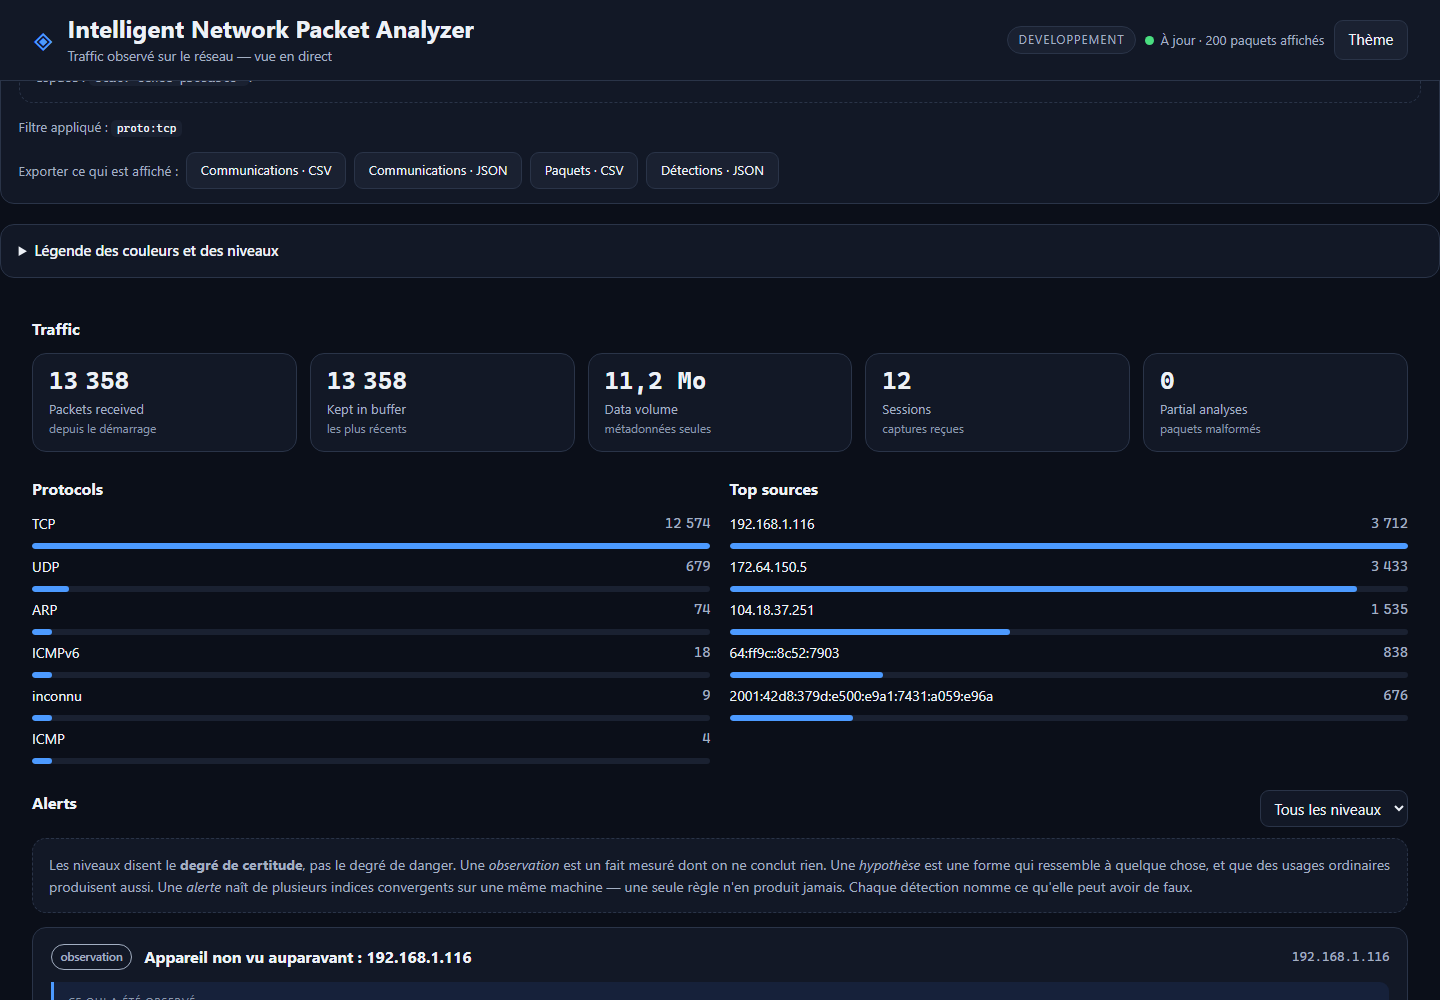
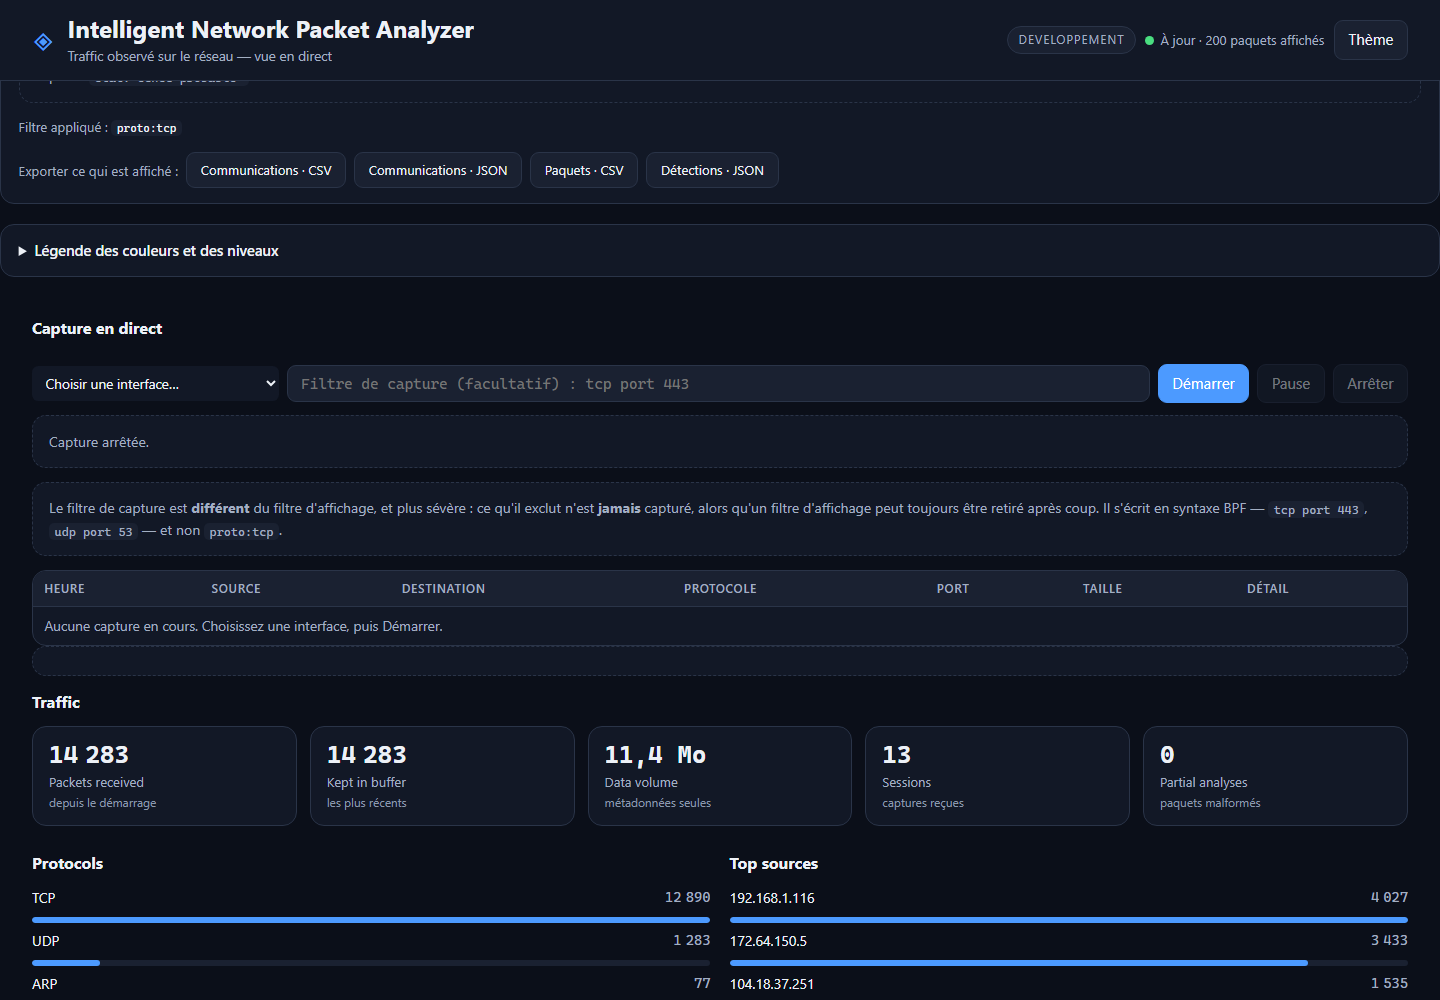
feat(web): cinq vues nommees, celles du sujet - fin de la page en neuf blocs
LA PAGE PORTE LES VUES DU PARAGRAPHE 9 : Traffic, Connections, Protocols, Alerts, Paquets.
Neuf blocs au meme niveau ne disaient pas ou commencer ; une barre d'onglets le dit sans rien
expliquer.

OU VA CHAQUE CHOSE. Traffic : chiffres, principales sources, debit, statistiques, historique.
Connections : les communications et le recit. Protocols : les protocoles, leur role, la vue
par couche. Alerts : les detections et l'Expert Info avec ses criteres. Paquets : la liste et
le detail du paquet selectionne.

LA BARRE DE CAPTURE RESTE VISIBLE DANS TOUTES LES VUES. Elle n'est pas une information sur le
trafic : c'est le controle qui PRODUIT le trafic. La ranger dans une vue ferait qu'on ne
pourrait plus l'arreter depuis les autres - c'est-a-dire au moment ou l'on regarde ailleurs.

LA VUE CHOISIE EST DANS L'ADRESSE : elle se met en favori, se partage, et resiste a un
rafraichissement. Pendant une demonstration, c'est exactement le moment ou l'on ne veut pas se
perdre.

LA VUE COURANTE SE RECONNAIT PAR UN TRAIT ET PAR SON CONTRASTE, pas par la seule couleur : un
trait reste visible en niveaux de gris, une difference de teinte non.

AU CLAVIER, LES FLECHES PASSENT D'UNE VUE A L'AUTRE, comme dans un groupe d'onglets.

UNE VUE INCONNUE DANS L'ADRESSE RETOMBE SUR LA PREMIERE : un lien mal recopie ne doit pas
ressembler a une panne.

CE QUI RESTE : la vue detaillee unifiee (technique + analyse + explication + niveau au meme
[…]

diff --git a/web/templates/index.html b/web/templates/index.html
@@ -59,6 +59,14 @@
 {# Barre de filtre d'affichage. Elle agit sur les trois listes à la fois — paquets,
    communications, détections — parce qu'un filtre qui ne s'appliquerait qu'à une partie
    de la page donnerait deux réponses différentes à la même question. #}
+<nav class="vues" aria-label="Vues de l'analyse">
+  <button type="button" class="vue-onglet" data-cible="traffic">Traffic</button>
+  <button type="button" class="vue-onglet" data-cible="connections">Connections</button>
+  <button type="button" class="vue-onglet" data-cible="protocols">Protocols</button>
+  <button type="button" class="vue-onglet" data-cible="alerts">Alerts</button>
+  <button type="button" class="vue-onglet" data-cible="paquets">Paquets</button>
+</nav>
+
 <section class="barre-filtre" aria-labelledby="titre-filtre">
   <h2 id="titre-filtre" class="sr-only">Filtre d'affichage</h2>
   <div class="barre-filtre__ligne">
@@ -140,7 +148,7 @@
 </details>
 
 <main>
-  <section aria-labelledby="titre-capture" class="section-capture">
+  <section data-vue-toujours="1" aria-labelledby="titre-capture" class="section-capture">
     <div class="titre-section--ligne">
       <h2 id="titre-capture" class="titre-section">Capture en direct</h2>
     </div>
@@ -195,7 +203,7 @@
     <p class="aide" id="vivant-compteur"></p>
   </section>
 
-  <section aria-labelledby="titre-traffic">
+  <section data-vue="traffic" aria-labelledby="titre-traffic">
     <h2 id="titre-traffic" class="titre-section">Traffic</h2>
     <div class="cartes" id="cartes">
       {# Valeurs remplies par le JavaScript : une seule source de vérité. #}
@@ -208,18 +216,18 @@
   </section>
 
   <div class="colonnes">
-    <section aria-labelledby="titre-protocoles">
+    <section data-vue="protocols" aria-labelledby="titre-protocoles">
       <h2 id="titre-protocoles" class="titre-section">Protocols</h2>
       <ul class="repartition" id="repartition"></ul>
     </section>
 
-    <section aria-labelledby="titre-sources">
+    <section data-vue="traffic" aria-labelledby="titre-sources">
       <h2 id="titre-sources" class="titre-section">Top sources</h2>
       <ul class="repartition" id="sources"></ul>
     </section>
   </div>
 
-  <section aria-labelledby="titre-detections">
+  <section data-vue="alerts" aria-labelledby="titre-detections">
     <div class="titre-section--ligne">
       <h2 id="titre-detections" class="titre-section">Alerts</h2>
       <div class="filtres">
@@ -247,7 +255,7 @@
     </p>
   </section>
 
-  <section aria-labelledby="titre-statistiques">
+  <section data-vue="traffic" aria-labelledby="titre-statistiques">
     <div class="titre-section--ligne">
       <h2 id="titre-statistiques" class="titre-section">Répartitions et débit</h2>
     </div>
@@ -282,7 +290,7 @@
     </div>
   </section>
 
-  <section aria-labelledby="titre-anomalies">
+  <section data-vue="alerts" aria-labelledby="titre-anomalies">
     <div class="titre-section--ligne">
       <h2 id="titre-anomalies" class="titre-section">Expert Info</h2>
       <p class="aide" id="anomalies-resume"></p>
@@ -296,7 +304,7 @@
     <div id="anomalies-liste"></div>
   </section>
 
-  <section aria-labelledby="titre-communications">
+  <section data-vue="connections" aria-labelledby="titre-communications">
     <div class="titre-section--ligne">
       <h2 id="titre-communications" class="titre-section">Connections</h2>
       <div class="filtres">
@@ -361,7 +369,7 @@
      Trois zones, visibles ensemble et nommées comme dans les outils de référence : la liste
      des paquets, le détail du paquet sélectionné, le contenu du paquet. Les empiler dans une
      fenêtre qu'il faut ouvrir obligerait à retenir ce qu'on vient de quitter. #}
-  <div class="paquet-detail" id="paquet-detail" aria-labelledby="paquet-detail-titre">
+  <div class="paquet-detail" id="paquet-detail" data-vue="paquets" aria-labelledby="paquet-detail-titre">
     <div class="detail-entete">
       <h3 id="paquet-detail-titre">Détail du paquet sélectionné</h3>
       <button type="button" class="bouton bouton--fantome" id="paquet-detail-fermer">
@@ -408,7 +416,7 @@
     <div id="recit-phrases"></div>
   </div>
 
-  <section aria-labelledby="titre-paquets">
+  <section data-vue="paquets" aria-labelledby="titre-paquets">
     <div class="titre-section--ligne">
       <h2 id="titre-paquets" class="titre-section">Liste des paquets</h2>
       <div class="filtres">
@@ -456,7 +464,7 @@
     </p>
   </section>
 
-  <section aria-labelledby="titre-sessions">
+  <section data-vue="traffic" aria-labelledby="titre-sessions">
     <h2 id="titre-sessions" class="titre-section">Sessions</h2>
     <p class="aide">Une session correspond à un lancement de l'agent. En phase actuelle,
        cette liste vit en mémoire et disparaît au redémarrage du backend.</p>

diff --git a/web/static/dashboard.js b/web/static/dashboard.js
@@ -1826,3 +1826,73 @@ function signalerCriteresEcartes(champs) {
   relireEtat();
   setInterval(relireEtat, 2000);
 })();
+
+/* ================================================================== vues de l'analyse
+
+   Le sujet nomme la structure : vue generale (Traffic, Connections, Protocols, Alerts),
+   vue des paquets, vue detaillee. Une page unique de neuf blocs ne dit pas ou commencer.
+
+   Deux precautions :
+
+   - **La vue choisie est dans l'adresse** (le fragment). Elle peut donc etre mise en favori
+     et partagee, et un rafraichissement ramene la ou on etait. Sans cela, un visiteur curieux
+     qui recharge la page perd le fil.
+   - **La capture reste visible dans toutes les vues.** C'est le point de depart du sujet : on
+     ne peut pas la cacher parce qu'on a change d'onglet. */
+(function () {
+  "use strict";
+
+  const onglets = [...document.querySelectorAll(".vue-onglet")];
+  const sections = [...document.querySelectorAll("[data-vue]")];
+  if (!onglets.length || !sections.length) return;
+
+  const VUES = onglets.map((onglet) => onglet.dataset.cible);
+  const DEFAUT = VUES[0] || "traffic";
+
+  function montrer(vue) {
+    let trouvee = false;
+    sections.forEach((section) => {
+      const sienne = section.dataset.vue === vue;
+      section.hidden = !sienne;
+      if (sienne) trouvee = true;
+    });
+    onglets.forEach((onglet) => {
+      onglet.setAttribute("aria-current", String(onglet.dataset.cible === vue));
+    });
+    return trouvee;
+  }
+
+  function choisir(vue, ecrireAdresse) {
+    // Une vue inconnue dans l'adresse ne doit pas laisser un ecran vide : on retombe sur la
+    // premiere. Un lien mal recopie ne doit pas ressembler a une panne.
+    if (!montrer(vue)) {
+      vue = DEFAUT;
+      montrer(vue);
+    }
+    if (ecrireAdresse) history.replaceState(null, "", `#${vue}`);
+    return vue;
+  }
+
+  onglets.forEach((onglet) => {
+    onglet.addEventListener("click", () => choisir(onglet.dataset.cible, true));
+    // Le clavier seul : fleches gauche et droite passent d'une vue a l'autre, comme dans un
+    // groupe d'onglets. Sans cela, il faut tabuler sur chaque onglet pour en changer.
+    onglet.addEventListener("keydown", (evenement) => {
+      const index = VUES.indexOf(onglet.dataset.cible);
+      let cible = null;
+      if (evenement.key === "ArrowRight") cible = VUES[(index + 1) % VUES.length];
+      if (evenement.key === "ArrowLeft") cible = VUES[(index - 1 + VUES.length) % VUES.length];
+      if (evenement.key === "Home") cible = VUES[0];
+      if (evenement.key === "End") cible = VUES[VUES.length - 1];
+      if (!cible) return;
+      evenement.preventDefault();
+      choisir(cible, true);
+      const suivant = onglets.find((o) => o.dataset.cible === cible);
+      if (suivant) suivant.focus();
+    });
+  });
+
+  window.addEventListener("hashchange", () => choisir(location.hash.slice(1) || DEFAUT, false));
+
+  choisir(location.hash.slice(1) || DEFAUT, true);
+})();

diff --git a/web/static/dashboard.css b/web/static/dashboard.css
@@ -133,6 +133,42 @@
    Des barres plutôt qu'une bibliothèque de graphiques : la même information, lisible par
    un lecteur d'écran (le chiffre est écrit à côté), et pas une dépendance de plus à
    charger et à maintenir. */
+/* --------------------------------------------------------------- vues de l'analyse
+   Le sujet nomme lui-même la structure : Vue générale (Traffic, Connections, Protocols,
+   Alerts), vue des paquets, vue détaillée. Une page unique de neuf blocs ne dit pas où
+   commencer ; une barre d'onglets le dit sans rien expliquer. */
+.vues {
+  display: flex;
+  flex-wrap: wrap;
+  gap: .25rem;
+  margin-bottom: 1rem;
+  border-bottom: 1px solid var(--bordure);
+}
+
+.vue-onglet {
+  background: transparent;
+  border: 0;
+  border-bottom: 3px solid transparent;
+  color: var(--texte-doux);
+  font: inherit;
+  font-size: .95rem;
+  padding: .6rem 1rem;
+  cursor: pointer;
+  border-radius: .3rem .3rem 0 0;
+}
+
+.vue-onglet:hover { background: var(--surface-2); color: var(--texte); }
+
+/* L'onglet courant se reconnaît par un trait **et** par son contraste — pas par la seule
+   couleur : un trait de trois pixels reste visible en niveaux de gris. */
+.vue-onglet[aria-current="true"] {
+  color: var(--primaire);
+  border-bottom-color: var(--primaire);
+  font-weight: 600;
+}
+
+.vue-onglet:focus-visible { outline: 2px solid var(--primaire); outline-offset: -2px; }
+
 /* ------------------------------------------------------------------ capture en direct
    Les deux états d'une capture doivent se distinguer d'un coup d'œil : on ne peut pas
    laisser croire qu'on écoute alors qu'on a arrêté, ni l'inverse. */

diff --git a/docs/DEFENSE.md b/docs/DEFENSE.md
@@ -1512,3 +1512,65 @@ Parce qu'une zone doit dire ce qu'elle est, pas ce qu'elle contient. Le titre «
 paquet sélectionné » indique la nature du contenu **avant** qu'on ait cliqué : un lecteur qui
 découvre l'écran sait à quoi sert le volet vide. Un titre qui décrit le contenu ne renseigne
 que ceux qui savent déjà.
+
+
+---
+
+# Vues nommées — la page suit enfin la structure du sujet
+
+## Ce qui a changé
+
+La page n'est plus une suite de neuf blocs : elle porte **cinq vues nommées**, celles du
+sujet.
+
+| Vue | Ce qu'elle rassemble |
+|---|---|
+| **Traffic** | les chiffres, les principales sources, le débit, les statistiques, l'historique |
+| **Connections** | les communications observées, le récit d'une conversation |
+| **Protocols** | les protocoles, leur rôle, la vue par couche |
+| **Alerts** | les détections, l'Expert Info et ses critères |
+| **Paquets** | la liste des paquets et le détail du paquet sélectionné |
+
+**La barre de capture reste visible dans toutes les vues.** C'est le point de départ du sujet :
+on ne peut pas la cacher parce qu'on a changé d'onglet.
+
+## Pourquoi ces choix
+
+**La vue choisie est dans l'adresse.** Elle peut donc être mise en favori, partagée, et un
+rafraîchissement ramène où l'on était. Sans cela, un visiteur qui recharge la page perd le fil
+— et pendant une démonstration, c'est exactement le moment où l'on ne veut pas se perdre.
+
+**La vue courante se reconnaît par un trait de trois pixels *et* par son contraste.** Pas par
+la seule couleur : un trait reste visible en niveaux de gris, une différence de teinte non.
+
+**Au clavier, les flèches passent d'une vue à l'autre**, comme dans un groupe d'onglets. Sans
+cela, il faut tabuler sur chaque onglet pour en changer — et un jury qui navigue au clavier
+voit immédiatement la différence.
+
+**Une vue inconnue dans l'adresse retombe sur la première.** Un lien mal recopié ne doit pas
+ressembler à une panne.
+
+## Ce qui n'est pas encore fait
+
+**La vue détaillée unifiée du §9** — *Technical information + Analysis + Human explanation +
+Risk / status* **au même endroit**. Les quatre blocs existent, mais ils restent répartis entre
+la table des communications, les explications et le récit. C'est la prochaine étape, et c'est
+celle qui manque pour que la démonstration se déroule sans changer d'écran.
+
+**L'affichage de l'enrichissement** (§8, étape 7 de la démonstration) : l'appel à l'API
+externe existe et fonctionne, mais son résultat n'est montré nulle part.
+
+## Deux questions de défense
+
+**1. Pourquoi des onglets plutôt qu'une seule page qui défile ?**
+
+Parce que le sujet nomme lui-même cette structure, et parce qu'une page unique de neuf blocs
+ne dit pas où commencer. Des onglets imposent un premier choix, et un premier choix est
+exactement ce qui manquait. Le revers — on ne voit plus tout d'un coup d'œil — est compensé par
+l'adresse : chaque vue a la sienne, et se partage.
+
+**2. Pourquoi ne pas avoir caché la barre de capture dans la vue Traffic ?**
+
+Parce qu'elle n'est pas une information sur le trafic : c'est le contrôle qui **produit** le
+trafic. La ranger dans une vue ferait qu'on ne pourrait plus l'arrêter depuis les autres —
+c'est-à-dire au moment précis où l'on regarde autre chose.

diff --git a/README.md b/README.md
@@ -388,6 +388,15 @@ sur des adresses IPv6 que personne ne lit.
 l'adresse est le fait vérifiable. Une adresse partagée par plusieurs noms reçoit le plus
 récemment observé, et l'outil le dit « d'après le DNS ».
 
+## Cinq vues nommées, celles du sujet
+
+La page porte les vues du §9 : **Traffic**, **Connections**, **Protocols**, **Alerts** et
+**Paquets**. La barre de capture reste visible dans toutes.
+
+La vue courante est dans l'adresse (`#traffic`, `#connections`…) : elle se met en favori, se
+partage, et résiste à un rafraîchissement. Au clavier, les flèches passent d'une vue à
+l'autre.
+
 ## Trois zones, comme dans les outils de référence
 
 La vue des paquets se lit d'un seul regard, en trois zones **nommées et visibles ensemble** :
@@ -521,7 +530,7 @@ from backend.explain import explications     # toutes les explications applicabl
 .venv\Scripts\python.exe -m pytest tests/ -q
 ```
 
-**375 tests** · **45 vérifications navigateur**, dont :
+**375 tests** · **48 vérifications navigateur**, dont :
 
 - **parseur** — poignée de main TCP complète, SYN sans réponse, RST, DNS (question et
   réponse), mDNS sans section question, ICMP, ARP, UDP, IPv6, paquet tronqué, protocole
